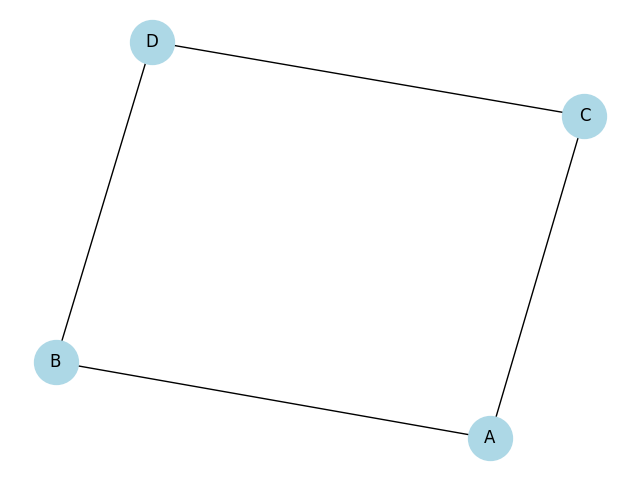
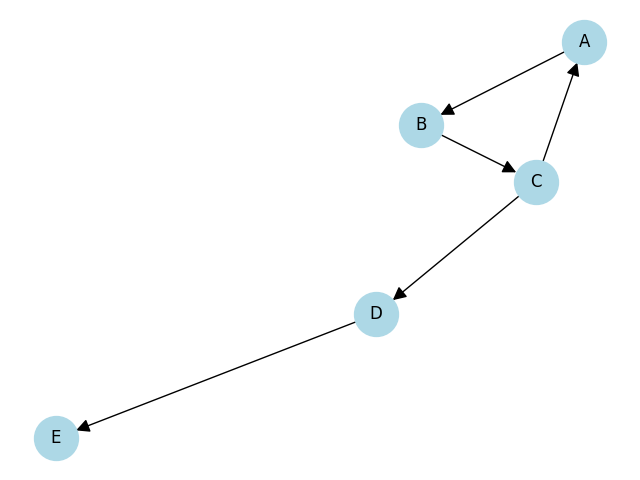
sccs

diff --git a/lib.py b/lib.py
@@ -201,44 +201,58 @@ def check_sequence(G: nx.Graph | nx.DiGraph, S: list):
     print(f"- É um circuito (trilha fechada): {'Sim' if is_circuit else 'Não'}")
 
 
+def get_dfs_order(G: nx.DiGraph):
+    """
+    Executa uma busca em profundidade (DFS) em todo o grafo e retorna os nós em ordem de fim.
+    Variáveis Usadas:
+    - visited: Set para rastrear os nós já visitados e evitar ciclos infinitos.
+    - stack: Lista que armazena os nós na ordem em que terminam sua exploração
+    """
+    visited = set()
+    stack = []
 
-def check_dfs_order(G: nx.DiGraph):
-    """Verifica a ordem de visitação dos vértices em uma busca em profundidade (DFS)."""
-    visited = []
-    sequence = []
-    nodes = list(G.nodes())[0]
     def dfs(node):
-        visited.append(node)
+        visited.add(node)
         for neighbor in G.neighbors(node):
             if neighbor not in visited:
                 dfs(neighbor)
-        sequence.append(node)
-        return sequence
-    
-    return dfs(nodes)
+        stack.append(node)
+
+    for node in G.nodes():
+        if node not in visited:
+            dfs(node)
+
+    return stack
 
 
-def transposed_matrix(matrix):
-    """Transpõe uma matriz, convertendo linhas em colunas e vice-versa.
+def find_sccs_kosaraju(G: nx.DiGraph):
     """
-    n = []
+    Implementa o algoritmo de Kosaraju-Sharir para identificar Componentes Fortemente Conectadas (SCCs).
+    - Pega a ordem de término dos nós usando a funcão get_dfs_post_order.
+    - Transpõe o grafo para obter o grafo reverso.
+    - Realiza uma DFS no grafo reverso seguindo a ordem inversa de término para coletar os nós de cada SCC.
 
-    for i in range(len(matrix[0])):
-        row = []
-        for j in range(len(matrix)):
-            row.append(matrix[j][i])
-        n.append(row)
+    """
+    order_stack = get_dfs_order(G)
 
-    return n
+    G_rev = G.reverse(copy=True)
 
-def create_reversed_digraph(G: nx.DiGraph, matrix):
-    """Cria o dígrafo reverso de um dígrafo dado."""
-    n_graph = nx.DiGraph()
-    nodes_list = list(G.nodes())
+    visited = set()
+    sccs = []
 
-    for i in range(len(matrix)):
-        for j in range(len(matrix[0])):
-            if matrix[i][j] != 0:
-                n_graph.add_edge(nodes_list[j], nodes_list[i])
+    def dfs_collect_scc(node, current_scc):
+        """Função auxiliar para coletar todos os nós alcancaveis em um grafo"""
+        visited.add(node)
+        current_scc.append(node)
+        for neighbor in G_rev.neighbors(node):
+            if neighbor not in visited:
+                dfs_collect_scc(neighbor, current_scc)
 
-    return n_graph
+    while order_stack:
+        node = order_stack.pop()
+        if node not in visited:
+            scc = []
+            dfs_collect_scc(node, scc)
+            sccs.append(scc)
+
+    return sccs

diff --git a/codigobase.py b/codigobase.py
@@ -125,15 +125,15 @@ if __name__ == "__main__":
 
     visualizar_grafo(G, ponderado)
 
-    print(lib.check_dfs_order(G))
-    matrix =  lib.graph_to_adjacency_matrix(G)
-    print("Adjaceny Matrix:")
-    for row in matrix:
-        print(row)
+    if isinstance(G, nx.DiGraph):
+        print("\n" + "=" * 50)
+        print("busca de sccs")
+        print("Algoritmo Escolhido: Kosaraju-Sharir")
+        print("=" * 50)
 
+        sccs = lib.find_sccs_kosaraju(G)
 
-    print("\nAdjacency Matrix (using lib.matrix_t):")
-    for row in lib.matrix_t(matrix):
-        print(row)
-
-    print()
+        print(f"Total de SCCs encontrados: {len(sccs)}")
+        for i, scc in enumerate(sccs, 1):
+            print(f"SCC {i}: {', '.join(sorted(scc))}")
+        print("=" * 50 + "\n")
